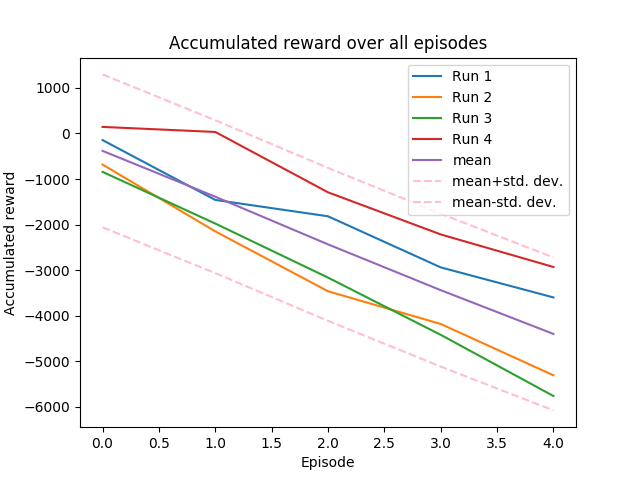
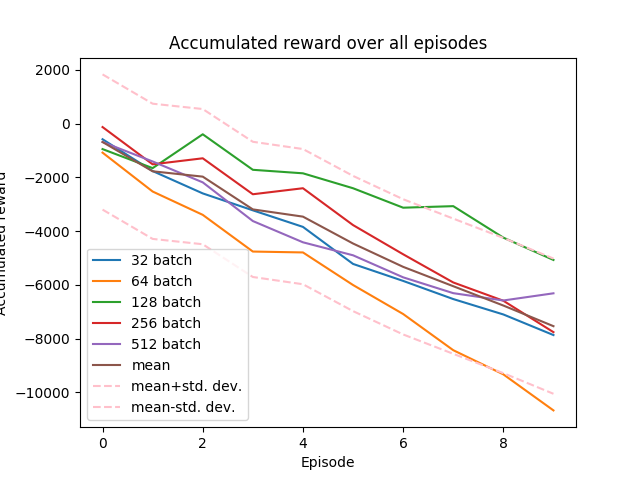
preparing batch sweep

diff --git a/project/hendrik/script.py b/project/hendrik/script.py
@@ -11,6 +11,7 @@ import time
 import matplotlib.pyplot as plt
 from pendulum import PendulumEnv
 import pandas as pd
+import csv
 
 def print_timestamp(string = ""):
     now = datetime.datetime.now()
@@ -58,14 +59,14 @@ MEMORY_SIZE = 8000000
 MEMORY_FILL = 800#0
 memory = []
 #def: 30000
-TRAINING_EPISODES = 5#00
+TRAINING_EPISODES = 10#5#00
 AUTO_SAVER = 50
 SHOW_PROGRESS = 25
 # def: 2000
 TIMESTEPS = 500
 BATCH_SIZE = [32, 64, 128, 256, 512]
 RUNS = 5
-TEST_PROGRESS = 1
+TEST_PROGRESS = 2
 TESTS = 1
 
 ####### INTIALISATION ##########################################################
@@ -110,7 +111,7 @@ for run in range(RUNS):
     start_time = time.time()
 
     for ep in range(TRAINING_EPISODES):
-        if (ep+1) % AUTO_SAVER == 0 and nepisodes != 0:
+        if (ep+1) % AUTO_SAVER == 0 and ep != 0:
             print_timestamp("saved")
             str_status = 'saved'
             agent.save(weights_file)
@@ -227,16 +228,16 @@ plt.figure()
 for i in range(RUNS):
     plt.plot(list_avg_reward[i], label='{} batch'.format(BATCH_SIZE[i]))
 plt.plot(np.mean(list_avg_reward,axis=0), label = 'mean')
-plt.plot(np.mean(list_avg_reward,axis=0)+np.std(list_acc_reward), label = 'mean+std. dev.',linestyle = '--', color='pink')
-plt.plot(np.mean(list_avg_reward,axis=0)-np.std(list_acc_reward), label = 'mean-std. dev.',linestyle = '--',color='pink')
+plt.plot(np.mean(list_avg_reward,axis=0)+np.std(list_avg_reward), label = 'mean+std. dev.',linestyle = '--', color='pink')
+plt.plot(np.mean(list_avg_reward,axis=0)-np.std(list_avg_reward), label = 'mean-std. dev.',linestyle = '--',color='pink')
 plt.title("Avg. reward in a intermediate test every {} episodes".format(TEST_PROGRESS))
 plt.xlabel("Test")
-plt.ylabel("Reward")
+plt.ylabel("Reward (Vanilla)")
 plt.legend()
 plt.savefig('avg_test_reward.png')
-
-
-
+with open('csv_files/batch_sweep/avg_test_reward.csv', 'w+') as csvfile:
+    writer = csv.writer(csvfile, delimiter=',', lineterminator="\n")
+    writer.writerows(list_avg_reward)
 
 plt.figure()
 for i in range(RUNS):
@@ -246,6 +247,9 @@ plt.xlabel("Episode")
 plt.ylabel("Reward")
 plt.legend()
 plt.savefig('reward_per_episode.png')
+with open('csv_files/batch_sweep/reward_per_episode.csv', 'w+') as csvfile:
+    writer = csv.writer(csvfile, delimiter=',', lineterminator="\n")
+    writer.writerows(list_episode_reward)
 
 
 plt.figure()
@@ -259,4 +263,11 @@ plt.xlabel("Episode")
 plt.ylabel("Accumulated reward")
 plt.legend()
 plt.savefig('acc_reward.png')
-plt.show()
+with open('csv_files/batch_sweep/list_acc_reward.csv', 'w+') as csvfile:
+    writer = csv.writer(csvfile, delimiter=',', lineterminator="\n")
+    writer.writerows(list_acc_reward)
+
+
+
+
+#plt.show()
